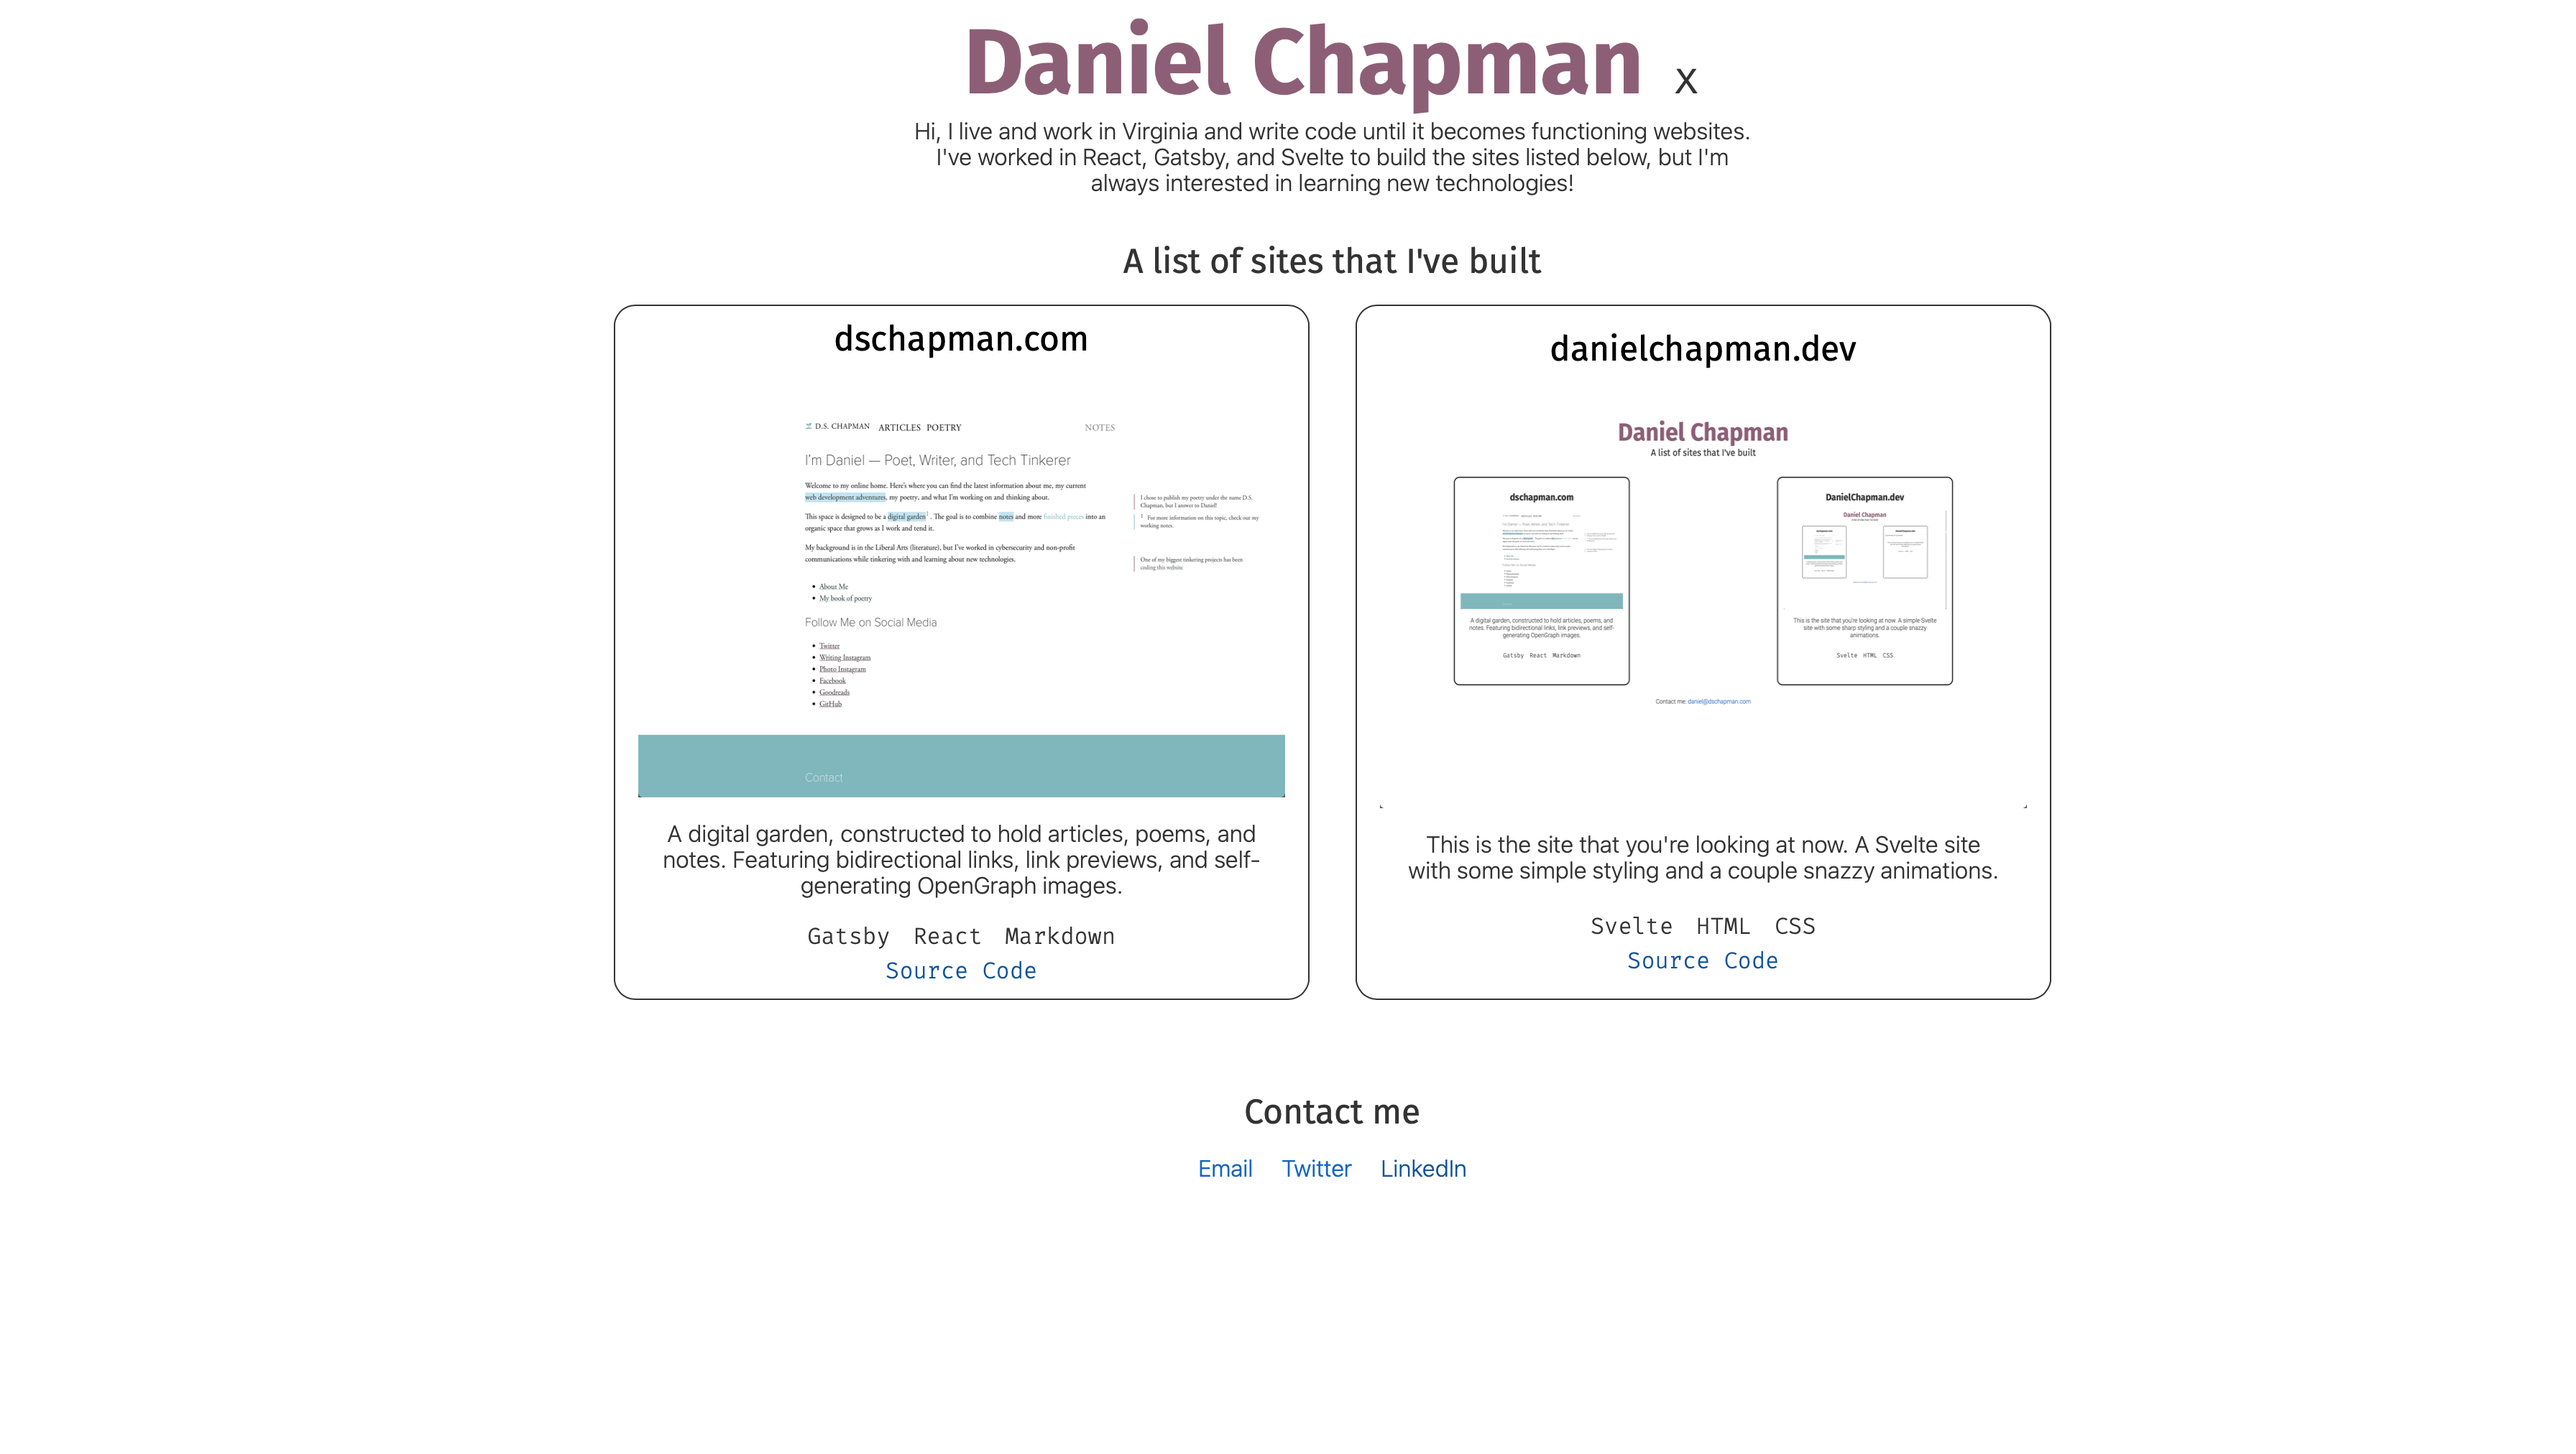
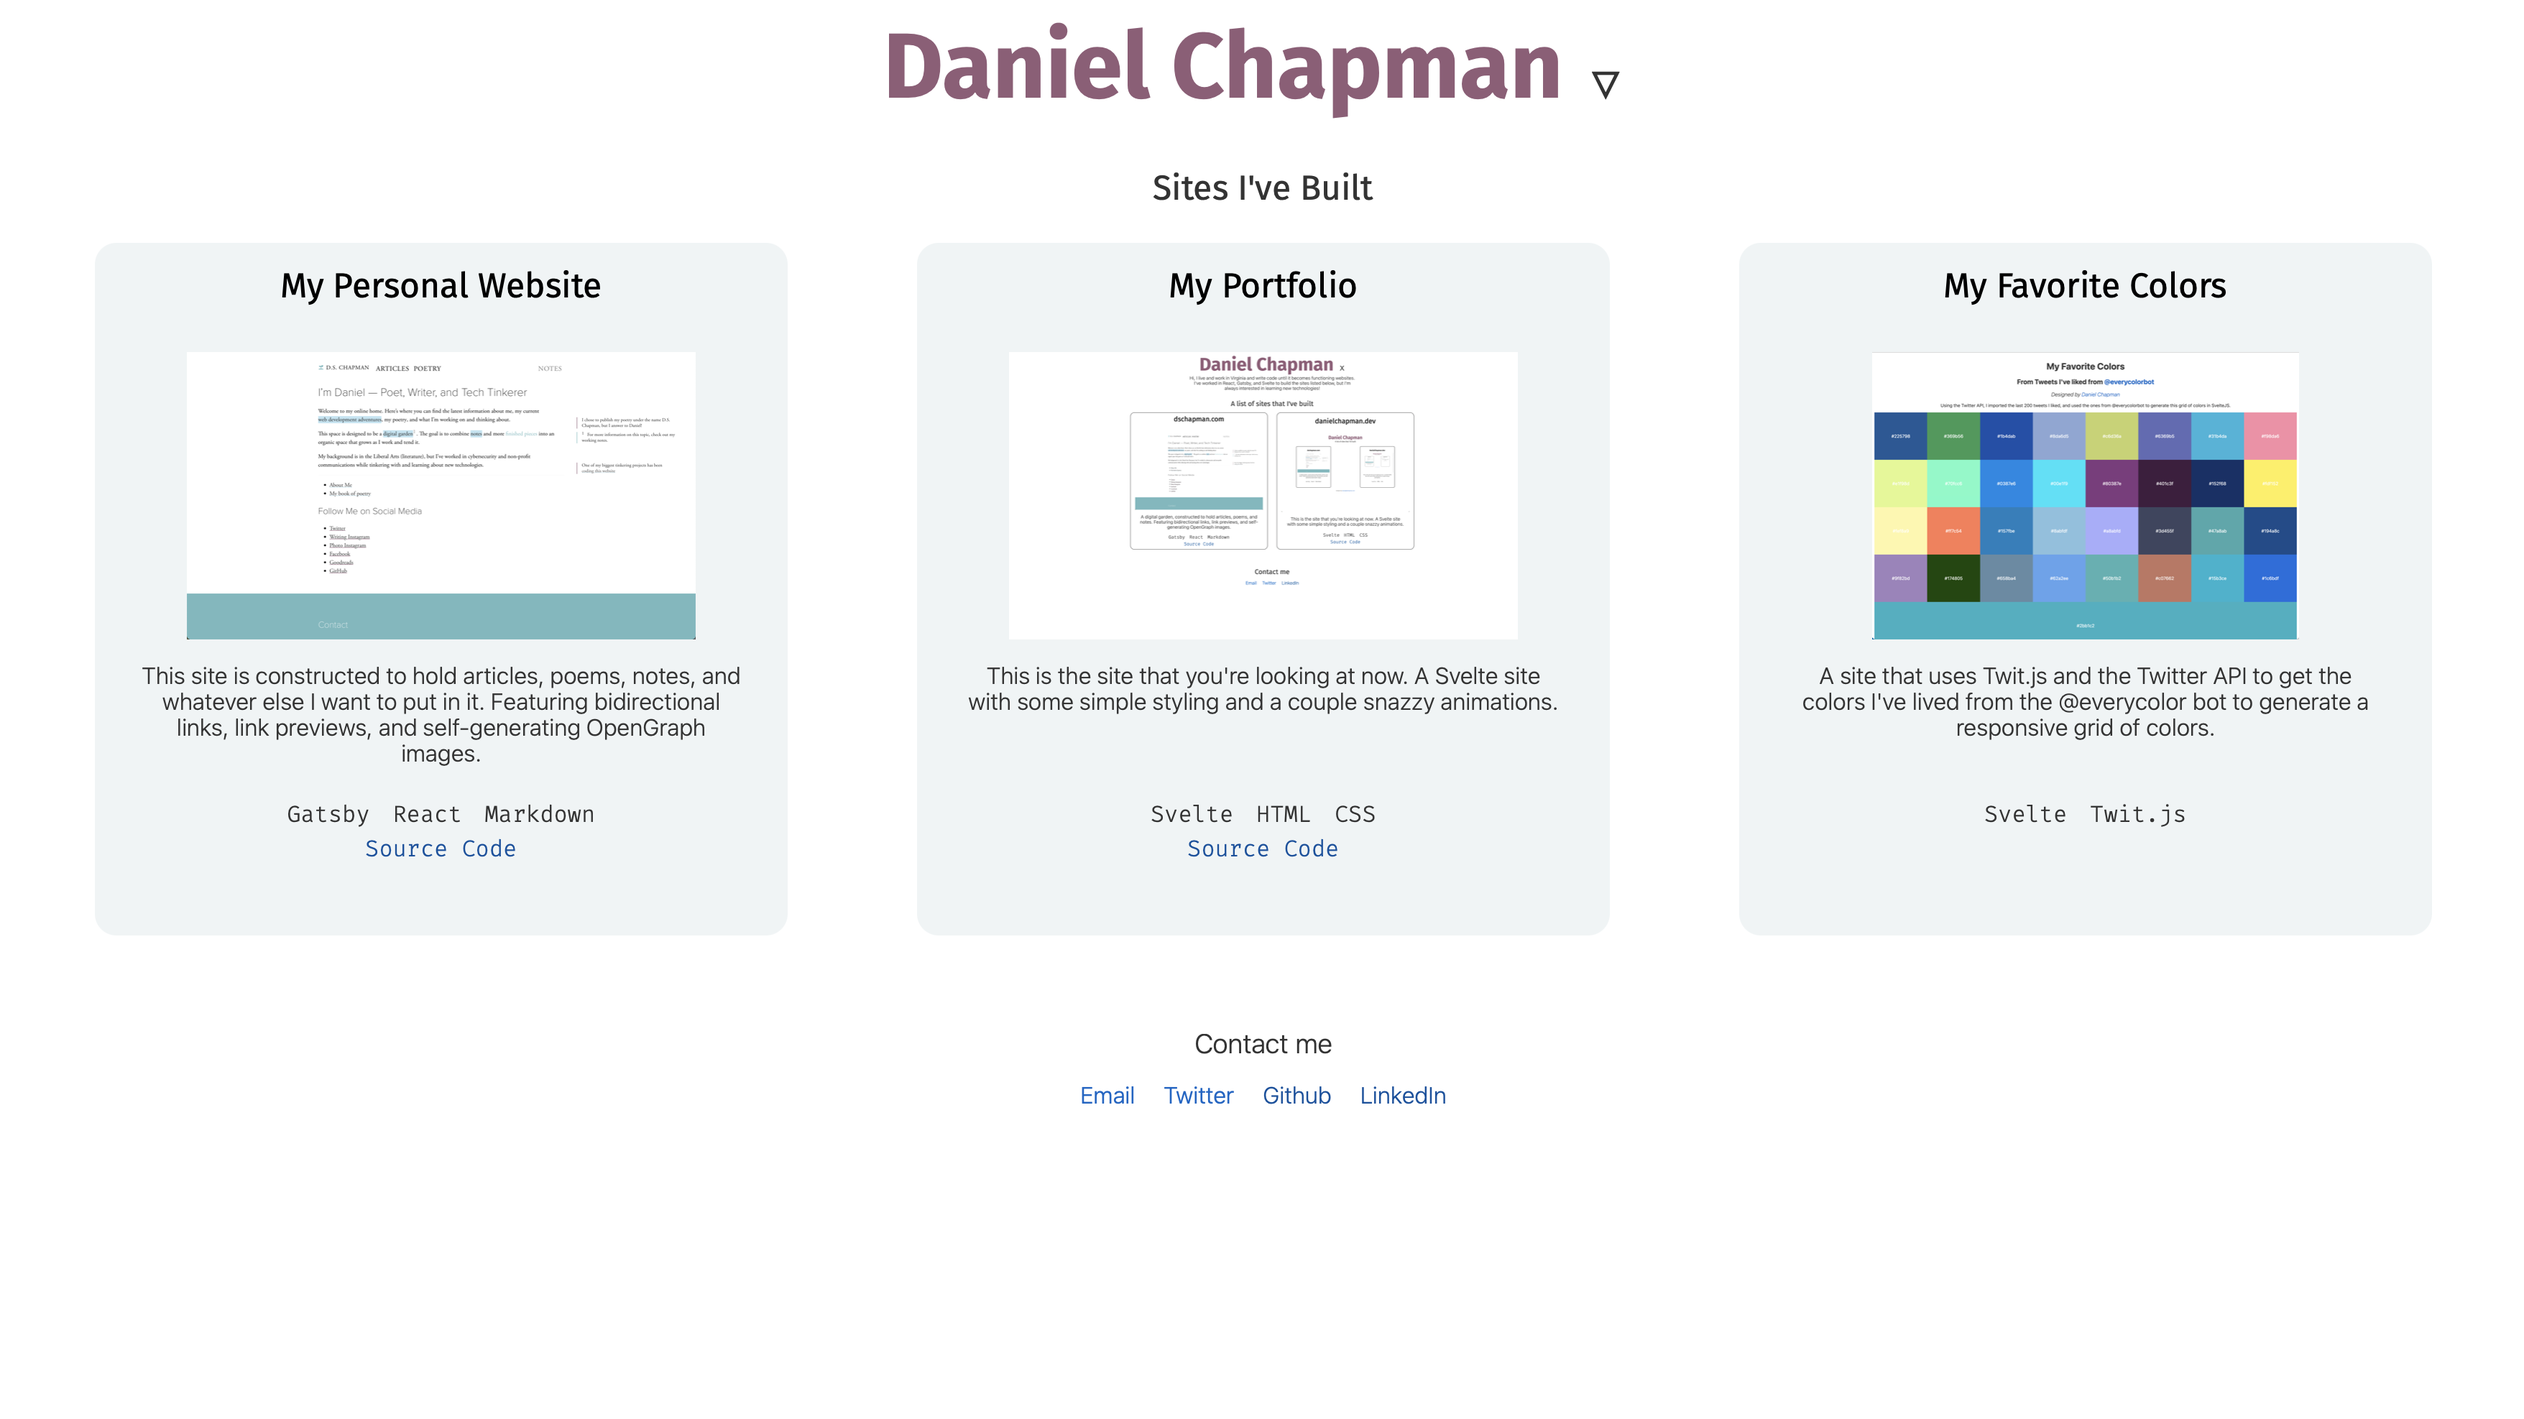
add new site

diff --git a/src/App.svelte b/src/App.svelte
@@ -50,36 +50,35 @@
   <div class="projects">
     <Project
       technologies={['Gatsby', 'React', 'Markdown']}
-      title={'dschapman.com'}
+      title={'My Personal Website'}
       image={'dschapman-com.png'}
-      description="My personal website - constructed to hold articles, poems,
-      and notes. Featuring bidirectional links, link previews, and
+      description="This site is constructed to hold articles, poems,
+      notes, and whatever else I want to put in it. Featuring bidirectional links, link previews, and
       self-generating OpenGraph images."
       link={'https://dschapman.com'}
       code={'https://github.com/dschapman/dschapman-com'} />
 
     <Project
       technologies={['Svelte', 'HTML', 'CSS']}
-      title={'danielchapman.dev'}
+      title={'My Portfolio'}
       image={'danielchapman-dev.png'}
       description={"This is the site that you're looking at now. A Svelte site with some simple styling and a couple snazzy animations."}
       link={'https://danielchapman.dev/'}
       code={'https://github.com/dschapman/danielchapman-dev'} />
+    <Project
+      technologies={['Svelte', 'Twit.js']}
+      title={'My Favorite Colors'}
+      image={'colors-danielchapman-dev.png'}
+      description={"A site that uses Twit.js and the Twitter API to get the colors I've liked from the @everycolor bot and generate a responsive grid of colors."}
+      link={'https://colors.danielchapman.dev/'} />
   </div>
 </main>
 <footer>
   <h3>Contact me</h3>
   <ul>
-    <li>
-      <a href="mailto:daniel@dschapman.com">Email</a>
-    </li>
-    <li>
-      <a href="twitter.com/ds_chapman">Twitter</a>
-
-    </li>
-    <li>
-      <a href="https://github.com/dschapman">Github</a>
-    </li>
+    <li><a href="mailto:daniel@dschapman.com">Email</a></li>
+    <li><a href="twitter.com/ds_chapman">Twitter</a></li>
+    <li><a href="https://github.com/dschapman">Github</a></li>
     <li>
       <a href="https://www.linkedin.com/in/daniel-chapman-63695271/">
         LinkedIn

diff --git a/src/Project.svelte b/src/Project.svelte
@@ -3,7 +3,7 @@
   export let code = "";
   export let title = "There was no Title";
   export let description = "There was no Description";
-  export let link;
+  export let link = "";
   export let image = "";
   let hovered = false;
   import { onMount } from "svelte";
@@ -139,7 +139,7 @@
           <li in:typewriter={{ speed: 175 }}>{technology}</li>
         {/each}
       </ul>
-      <a href={code}>Source Code</a>
+      {#if code != ''}<a href={code}>Source Code</a>{/if}
     </div>
   </div>
 {/if}
